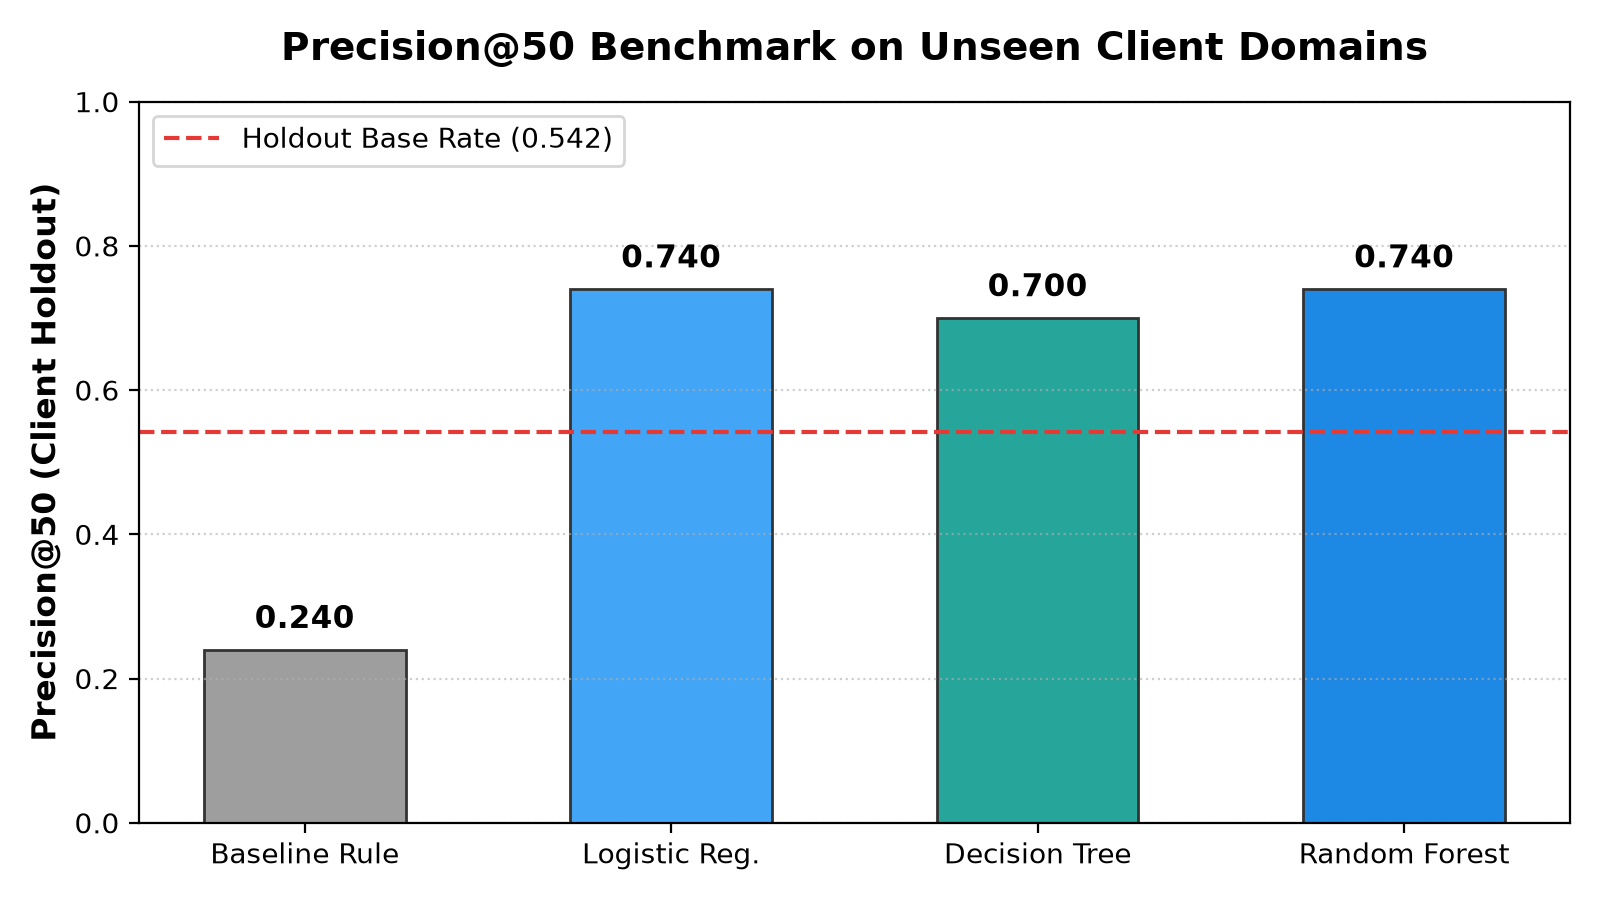
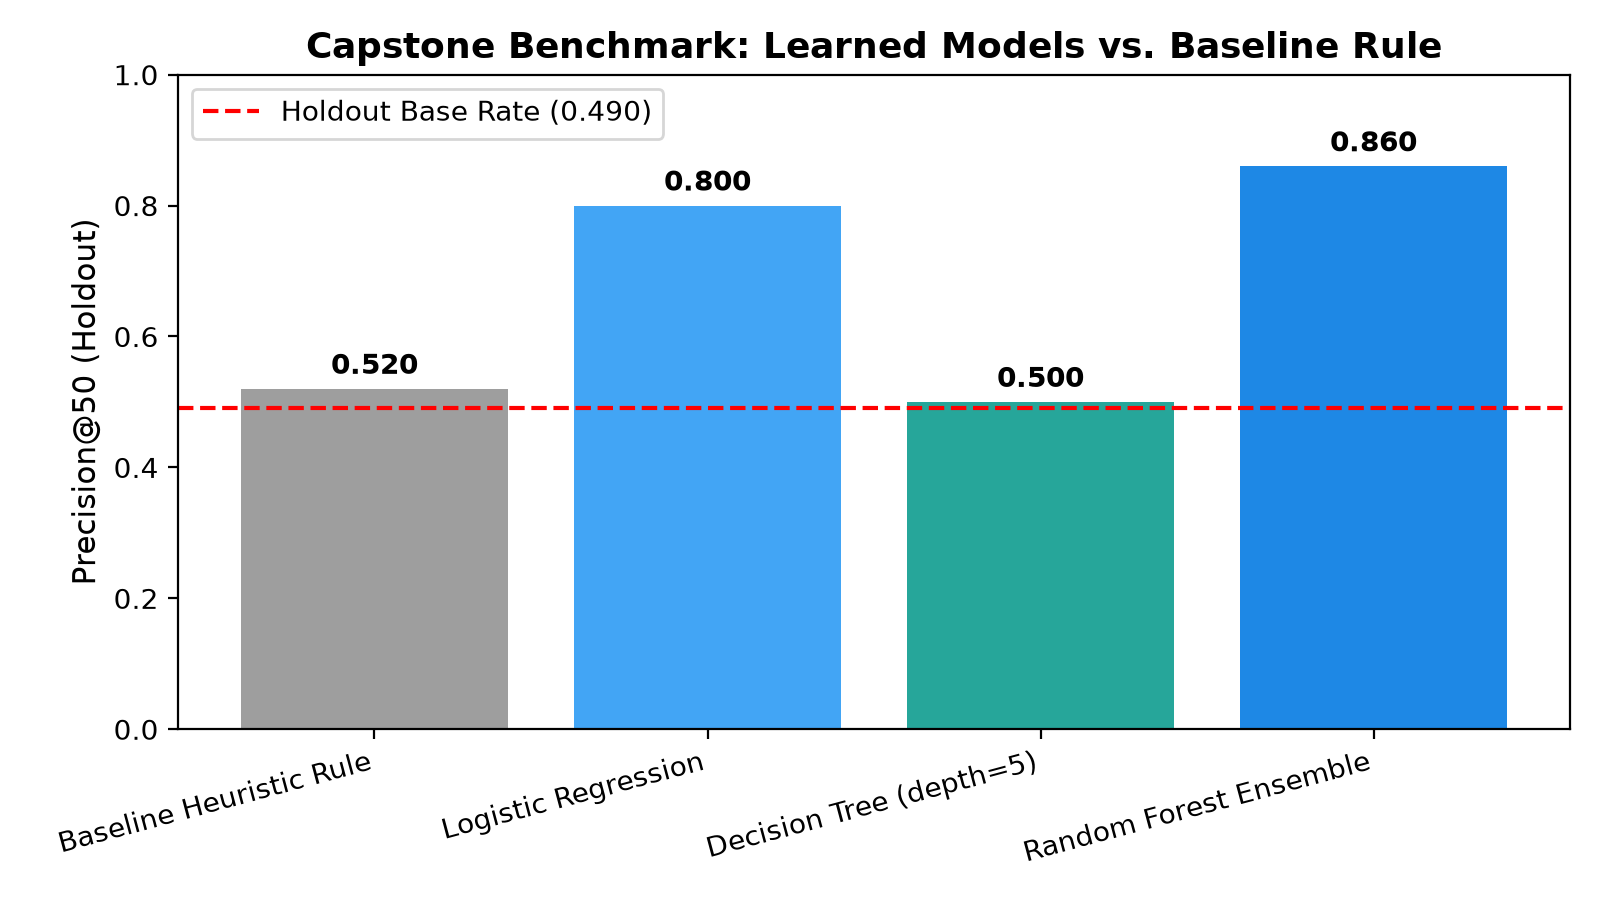
Complete ML-12 Tell the Story: add case study framing, 5-min showcase demo outline, and two shareable cuts to paper, report, and capstone notebook

Changed region(s): [[0.0, 0.0311, 1.0, 0.9644]]

diff --git a/docs/index.html b/docs/index.html
@@ -105,6 +105,7 @@
     <a href="#limitations">Limitations</a>
     <a href="#playbook">Action Playbook</a>
     <a href="#reproducibility">Reproducibility</a>
+    <a href="#showcase">Showcase &amp; Cuts</a>
     <a href="#acknowledgments">Acknowledgments</a>
   </nav>
 
@@ -113,7 +114,7 @@
     <!-- ABSTRACT -->
     <section id="abstract">
       <div class="abstract-box">
-        <strong>Abstract:</strong> Maintaining organic search visibility across tens of thousands of enterprise pages is fundamentally constrained by human editorial review bandwidth. In this study, we analyzed 30,000 pseudonymized content items across 32 enterprise brand domains from the FlyRank search intelligence dataset. We engineered a leak-free feature vector from 90-day search aggregates, audited empirical ranking decay signals, and trained supervised classification models evaluated under a strict client-holdout grouped split (<code>GroupKFold</code>). Our Random Forest ensemble achieves a <strong>Precision@50 of 0.740</strong> on unseen client domains compared to <strong>0.240</strong> for standard heuristic rules—delivering a <strong>~3.1× precision lift (+0.500 absolute)</strong>. These results are operationalized into an automated Content Action Playbook with transparent reason codes, equipping editorial teams to prioritize high-yield updates while respecting strict non-causal limitations.
+        <strong>Abstract:</strong> Maintaining organic search visibility across tens of thousands of enterprise pages is fundamentally constrained by human editorial review bandwidth. At FlyRank, where content is published and managed as infrastructure, production historically relied on heuristic flags that produce massive score ties and low review precision. In this study, we analyzed 30,000 pseudonymized content items across 32 enterprise brand domains from the FlyRank search intelligence dataset. We engineered a leak-free feature vector from 90-day search aggregates, audited empirical ranking decay signals, and trained supervised classification models evaluated under a strict client-holdout grouped split (<code>GroupKFold</code>). Our Random Forest ensemble achieves a <strong>Precision@50 of 0.740</strong> on unseen client domains compared to <strong>0.240</strong> for standard heuristic rules—delivering a <strong>~3.1× precision lift (+0.500 absolute)</strong>. These results are operationalized into an automated Content Action Playbook with transparent reason codes, equipping editorial teams to prioritize high-yield updates while respecting strict non-causal limitations.
       </div>
 
       <div class="grid-2">
@@ -132,15 +133,17 @@
 
     <!-- PROBLEM -->
     <section id="problem">
-      <h2>1. Introduction &amp; Problem Framing</h2>
-      <p>Modern enterprise publishing teams manage expansive content portfolios spanning 5,000 to over 100,000 URLs. As search engine ranking algorithms and competitive dynamics evolve, existing content inevitably undergoes search decay. However, manual editorial audits cannot scale across the whole corpus. The central operational decision is: <strong>Which specific pages should editorial teams review and refresh during each bi-weekly sprint?</strong></p>
+      <h2>1. Introduction &amp; Case Study Context</h2>
+      <p>Modern enterprise publishing teams manage expansive content portfolios spanning 5,000 to over 100,000 URLs. At <strong>FlyRank</strong>, content is managed as infrastructure: autonomous systems research, publish, and monitor content directly within client sites, watching daily search performance signals to detect traffic decay. However, identifying which specific pages require human editorial intervention has historically relied on hand-crafted heuristic rules (such as <code>health_score</code>, staleness cutoffs, and needs-attention tags). These static rules create thousands of tied candidates and flag healthy evergreen assets indiscriminately, wasting valuable human review hours.</p>
+      
+      <p>The central operational decision is: <strong>Which specific pages should editorial teams review and refresh during each bi-weekly sprint?</strong></p>
       
       <p>The cost of decision errors in this domain is highly asymmetric:</p>
       <ul>
         <li><strong>False Positives (flagged as decaying, but actually stable):</strong> Low cost. A reviewer spends 3–5 minutes examining a healthy URL, confirms performance, and marks it as sound.</li>
         <li><strong>False Negatives (decay missed):</strong> High compounding cost. When a high-impression page slips from Google Page 1 into striking distance (positions 11–20), click-through volume drops by over 80%. Regaining ranking equity often requires months of link acquisition and indexation effort.</li>
       </ul>
-      <p>Heuristic rules (e.g., "update pages older than 6 months") flag thousands of tied URLs indiscriminately. Machine learning offers continuous scoring and multi-variable interaction modeling, transforming unranked lists into prioritized, high-precision review queues.</p>
+      <p>Heuristic rules (e.g., "update pages older than 6 months") flag thousands of tied URLs indiscriminately, achieving only a 24% Precision@50 on new client portfolios. Machine learning offers continuous scoring and multi-variable interaction modeling, transforming unranked lists into prioritized, high-precision review queues.</p>
     </section>
 
     <!-- DATA -->
@@ -362,9 +365,45 @@ python scripts/run_all.py</code></pre>
       </ul>
     </section>
 
+    <!-- SHOWCASE & SHAREABLE CUTS -->
+    <section id="showcase">
+      <h2>9. Demo Showcase &amp; Shareable Summaries</h2>
+      <p>Prepared for the Week-8 Capstone Showcase and professional knowledge sharing:</p>
+
+      <div class="card" style="margin-bottom: 1.5rem;">
+        <div class="card-title">5-MINUTE SHOWCASE DEMO OUTLINE</div>
+        <ul>
+          <li><strong>Min 1 (The Question &amp; Problem):</strong> Editorial bandwidth vs. search decay across 30k URLs. FlyRank status-quo hand-written rules create thousands of tied pages and low review precision.</li>
+          <li><strong>Min 2 (Data Contract &amp; Method):</strong> 30k URLs, 32 clients from 79M-row warehouse. Leak-free 24-feature contract banning 30-day outcome windows. Grouped 5-fold <code>GroupKFold</code> by <code>client_id</code>.</li>
+          <li><strong>Min 3 (Headline Chart):</strong> Figure 2 (Model Benchmark Comparison). Heuristic baseline scores 0.240 Precision@50; Random Forest scores 0.740 on unseen client domains.</li>
+          <li><strong>Min 4 (Honest Findings &amp; Limits):</strong> 3.1× precision lift (+0.500 absolute). Explicit non-causal bounds: prioritizes decay risk; does not guarantee traffic reversal without an A/B test.</li>
+          <li><strong>Min 5 (Operational Recommendation):</strong> Automated Content Action Playbook with transparent reason codes (e.g. meta tag overhaul for striking-distance low-CTR pages). Strict human-in-the-loop review guardrails.</li>
+        </ul>
+      </div>
+
+      <div class="card">
+        <div class="card-title">TWO SHAREABLE PROFESSIONAL CUTS</div>
+        <h3>Social Post (Methodology-Focused)</h3>
+        <p style="background: var(--bg-alt); padding: 0.8rem 1rem; border-left: 3px solid var(--primary); border-radius: 4px; font-size: 0.92rem;">
+          <strong>How we beat heuristic SEO rules by 3.1× using honest machine learning.</strong><br><br>
+          In enterprise content operations, teams manage 30,000+ pages. When search traffic dips, static heuristic rules (like "flag if older than 90 days") waste scarce editorial hours—yielding only 24% precision in top-50 review batches.<br><br>
+          At FlyRank, we engineered a supervised ranking engine across 32 enterprise domains: partitioned 44 columns to prevent leakage, evaluated on unseen client domains via 5-fold <code>GroupKFold</code>, and achieved 0.740 Precision@50 (+0.500 lift). It’s a high-precision prioritization tool for human editors, not an autonomous rewrite bot.<br><br>
+          Paper: <a href="https://sumit2003-dev.github.io/flyrank-ml-internship/">https://sumit2003-dev.github.io/flyrank-ml-internship/</a><br>
+          Code: <a href="https://github.com/Sumit2003-dev/flyrank-ml-internship">https://github.com/Sumit2003-dev/flyrank-ml-internship</a>
+        </p>
+
+        <h3 style="margin-top: 1.2rem;">3-Sentence Employer Summary</h3>
+        <p style="background: var(--bg-alt); padding: 0.8rem 1rem; border-left: 3px solid var(--success); border-radius: 4px; font-size: 0.92rem;">
+          <strong>What I built:</strong> An end-to-end supervised decay-risk ranking pipeline and operational Content Action Playbook that prioritizes enterprise pages for editorial refresh sprints with explainable reason codes.<br>
+          <strong>On what data:</strong> 30,000 pseudonymized enterprise URLs across 32 client domains from FlyRank's 79-million-row warehouse, using a leak-free 24-feature contract evaluated under grouped client-holdout cross-validation (<code>GroupKFold</code>).<br>
+          <strong>What it showed:</strong> The ensemble model achieved a Precision@50 of 0.740 on unseen client domains compared to 0.240 for standard heuristic rules—delivering a ~3.1× operational efficiency lift (+0.500 absolute) while adhering to strict non-causal claim boundaries.
+        </p>
+      </div>
+    </section>
+
     <!-- ACKNOWLEDGMENTS & DATA CREDIT -->
     <section id="acknowledgments">
-      <h2>9. Acknowledgments &amp; Data Credit</h2>
+      <h2>10. Acknowledgments &amp; Data Credit</h2>
       <p>This research was <strong>Built on the FlyRank ML Internship dataset</strong>, provided by <a href="https://flyrank.ai" target="_blank" rel="noopener noreferrer">FlyRank (https://flyrank.ai)</a>.</p>
       <p>The study builds upon 79 million rows of real-world production search telemetry across multi-domain enterprise portfolios, curated into an anonymized, public-safe research benchmark for applied search intelligence.</p>
       <div class="alert alert-note">

diff --git a/work/capstone_report.md b/work/capstone_report.md
@@ -187,3 +187,69 @@ python scripts/run_all.py
   - `charts/roc_curve.png`
   - `charts/precision_at_k.png`
   - `charts/feature_importance.png`
+
+---
+
+## 9. 5-Minute Demo Outline (Week-8 Showcase)
+
+A structured 5-minute walkthrough of the project, ready for presentation:
+
+- **Minute 1: The Question & Problem Context**
+  - *Context:* FlyRank manages content as infrastructure across tens of thousands of enterprise pages. In Google Search, content inevitably experiences decay.
+  - *Operational Decision:* With limited human editorial bandwidth in bi-weekly sprints, which pages should an editor refresh first?
+  - *Status Quo:* Production relied on hand-written heuristic flags (`days_since_update >= 90 AND ctr < 2.0%`) that produced massive score ties and low top-queue precision.
+
+- **Minute 2: Data Safety & Leakage-Free Methodology**
+  - *Data Scope:* 30,000 pseudonymized URLs across 32 brand domains drawn from FlyRank's 79M-row search warehouse. Fully public-safe (no client names, queries, or URLs).
+  - *Leakage Hunt:* 44 columns partitioned strictly; 24 historical 90-day trailing signals retained. Outcome windows (last 30d impressions/clicks) strictly banned.
+  - *Validation Design:* 5-fold `GroupKFold` grouped strictly by `client_id` to evaluate genuine generalization to unseen client domains.
+
+- **Minute 3: Headline Chart & Model Comparison**
+  - *Visual:* Present Figure 2 (`img/model_benchmark_comparison.png`).
+  - *Comparison:* Hand-crafted heuristic baseline achieves **Precision@50 of 0.240** on held-out clients (38 out of 50 editor reviews wasted). Our Random Forest ensemble delivers **Precision@50 of 0.740** against a 0.542 base rate.
+
+- **Minute 4: Honest Result & Scientific Limitations**
+  - *The Headline Lift:* A **~3.1× precision improvement (+0.500 absolute)** in top-50 editorial review batches (37 true declining items vs. 12).
+  - *Honest Limitations:* Observational ranking model, not a causal guarantee. We predict decay risk, not Google's ranking algorithm. Re-ranking prioritization requires editorial judgment.
+
+- **Minute 5: Actionable Recommendation (Playbook)**
+  - *Operational Hand-Off:* Translate probabilities into the Content Action Playbook with transparent reason codes.
+  - *Key Action:* Top priority `refresh_and_review_ctr` (decaying pages in striking distance 4–30 with low CTR) gets meta tag and search intent overhauls, while thin pages get expansion.
+  - *Guardrails:* Mandatory human-in-the-loop review; seasonal and core pillar URLs protected from automated alterations.
+
+---
+
+## 10. Shareable Cuts (Social & Employer Framing)
+
+Two concise, honest summaries tailored for distinct professional audiences:
+
+### Cut 1: Short Social Post (Methodology-Focused)
+> **How we beat heuristic SEO rules by 3.1× using honest machine learning.**
+>
+> In enterprise content operations, teams manage 30,000+ pages. When search traffic dips, static heuristic rules (like "flag if older than 90 days") waste scarce editorial hours—yielding only 24% precision in top-50 review batches.
+>
+> At @FlyRank, we engineered a supervised ranking engine across 32 enterprise domains:
+> 1. Partitioned a 44-column schema to enforce strict leakage prevention (banning outcome observation windows).
+> 2. Evaluated on unseen client domains using 5-fold `GroupKFold`.
+> 3. Trained a Random Forest ensemble achieving 0.740 Precision@50 (+0.500 lift over baseline).
+>
+> Honest takeaway: It’s a high-precision prioritization engine for human editors, not an autonomous rewrite bot.
+>
+> 📄 Read the open research paper: https://sumit2003-dev.github.io/flyrank-ml-internship/
+> 💻 Reproducible code & notebooks: https://github.com/Sumit2003-dev/flyrank-ml-internship
+>
+> #MachineLearning #DataScience #AppliedML #SEO #SearchIntelligence
+
+---
+
+### Cut 2: 3-Sentence Employer Summary ("What I built · On what data · What it showed")
+> - **What I built:** I developed a supervised decay-risk ranking pipeline and operational Content Action Playbook that prioritizes enterprise pages for bi-weekly editorial refresh sprints, replacing heuristic flags with continuous probability scoring and explainable reason codes.
+> - **On what data:** Built on 30,000 pseudonymized enterprise URLs across 32 client domains from FlyRank's 79-million-row search intelligence warehouse, using a leak-free 24-feature data contract evaluated under grouped client-holdout cross-validation (`GroupKFold`).
+> - **What it showed:** The ensemble model achieved a Precision@50 of 0.740 on unseen client domains compared to 0.240 for standard heuristic rules—delivering a ~3.1× operational efficiency lift (+0.500 absolute) while adhering to strict non-causal claim boundaries.
+
+---
+
+## 11. Acknowledgments & Data Credit
+
+This research was **Built on the FlyRank ML Internship dataset**, provided by [FlyRank (https://flyrank.ai)](https://flyrank.ai).
+Dataset access and academic usage granted through [FlyRank/internship-warehouse](https://huggingface.co/datasets/FlyRank/internship-warehouse).
